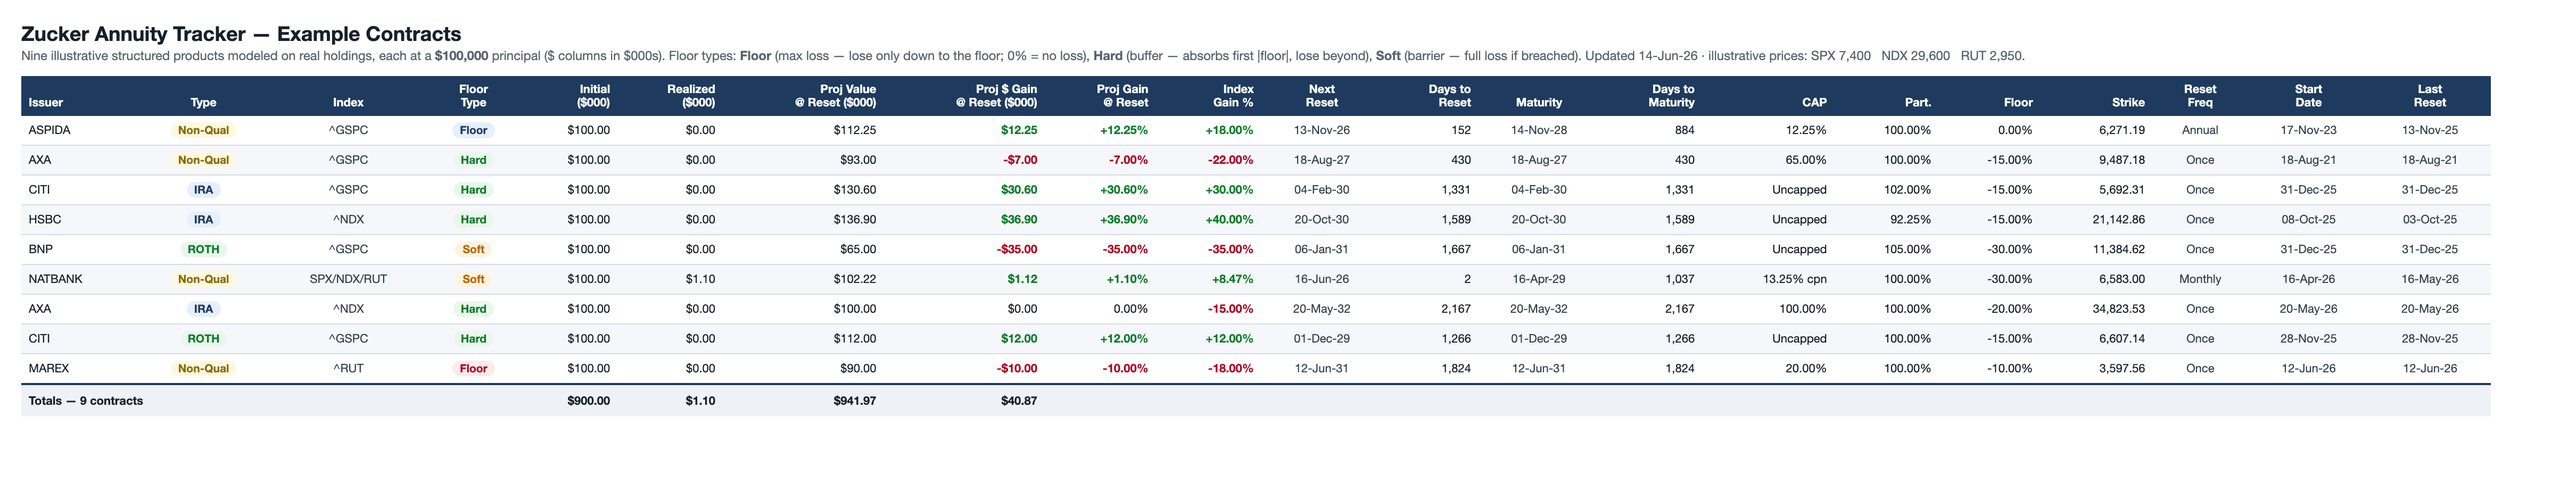
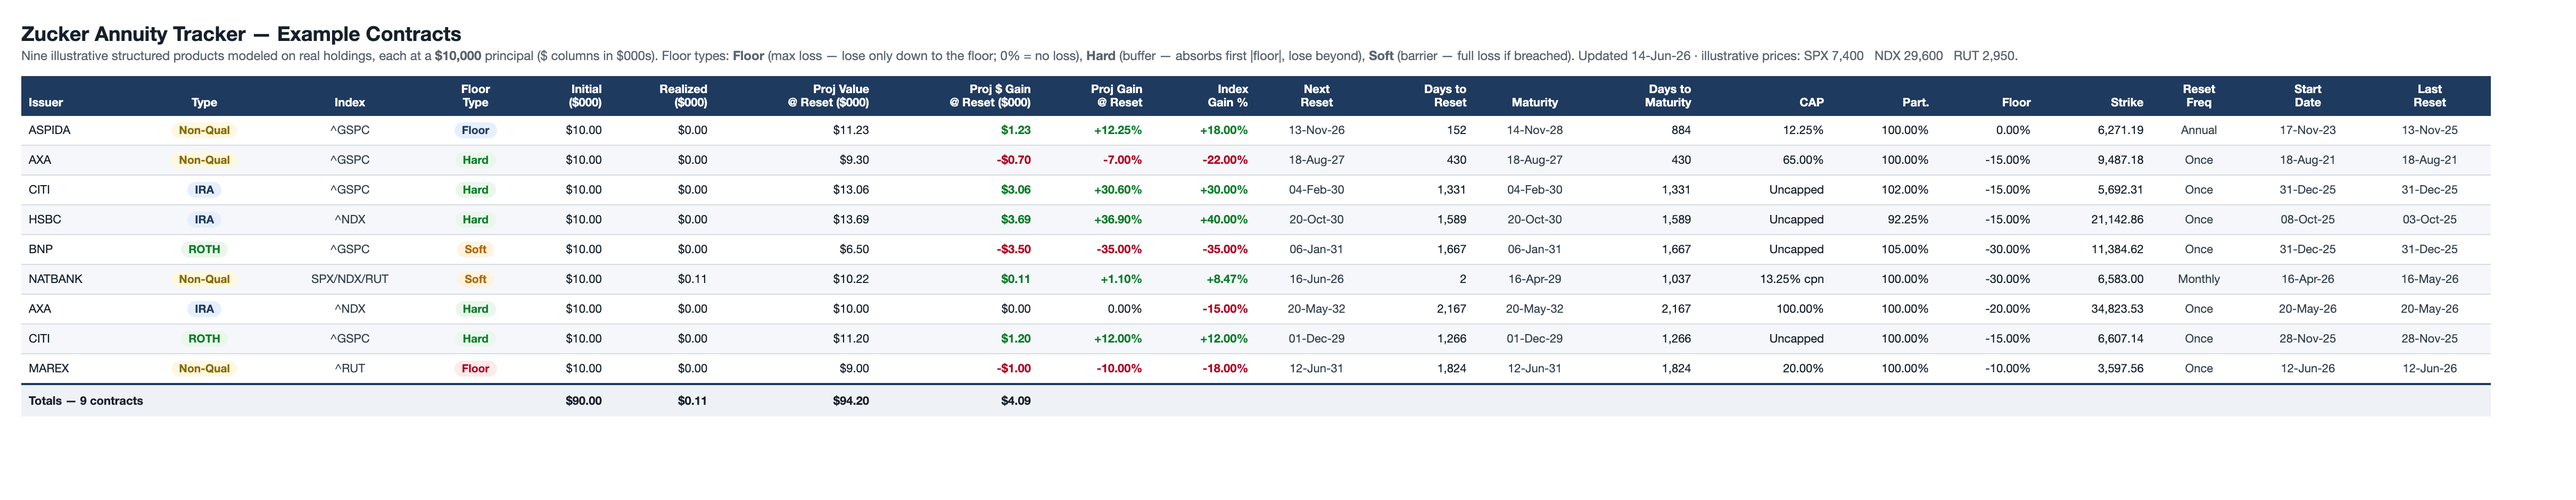
Fix CI + docs for the $10K sample; regenerate from gen_overview.py (v1.6.6) (#14)
The v1.6.5 sample change ($100K→$10K) was hand-edited into the xlsx binaries,
which broke three tests that hard-code the old dollar figures and left the docs
still showing $100K.

- Make gen_overview.py the single source: add PRINCIPAL=10.0, scale the note's
  realized coupon 1.10→0.11 for a uniform 1/10 sample, and regenerate all four
  xlsx files (data/ + app/assets/) plus overview.html.
- Update the three tests to the $10K figures (Proj Value, realized, totals).
- Update README (heading, intro, Proj Value column, total) and regenerate
  docs/overview.png + docs/screenshots/{hero,drilldown,phone-cards}.png.

flutter test --exclude-tags golden: 247 pass. Coverage gate holds (core 100%,
data 96.79%). Goldens regenerated and copied to docs/screenshots.

diff --git a/docs/overview.html b/docs/overview.html
@@ -40,7 +40,7 @@
 </head>
 <body>
   <div class="title">Zucker Annuity Tracker &mdash; Example Contracts</div>
-  <div class="sub">Nine illustrative structured products modeled on real holdings, each at a <b>$100,000</b> principal ($ columns in $000s). Floor types: <b>Floor</b> (max loss — lose only down to the floor; 0% = no loss), <b>Hard</b> (buffer — absorbs first |floor|, lose beyond), <b>Soft</b> (barrier — full loss if breached). Updated 14-Jun-26 &middot; illustrative prices: SPX 7,400 &nbsp; NDX 29,600 &nbsp; RUT 2,950.</div>
+  <div class="sub">Nine illustrative structured products modeled on real holdings, each at a <b>$10,000</b> principal ($ columns in $000s). Floor types: <b>Floor</b> (max loss — lose only down to the floor; 0% = no loss), <b>Hard</b> (buffer — absorbs first |floor|, lose beyond), <b>Soft</b> (barrier — full loss if breached). Updated 14-Jun-26 &middot; illustrative prices: SPX 7,400 &nbsp; NDX 29,600 &nbsp; RUT 2,950.</div>
   <table>
     <thead>
       <tr>
@@ -73,8 +73,8 @@
         <td class="c"><span class="pill nq">Non-Qual</span></td>
         <td class="c">^GSPC</td>
         <td class="c"><span class="pill abs">Floor</span></td>
-        <td>$100.00</td><td>$0.00</td>
-        <td>$112.25</td><td class="pos">$12.25</td>
+        <td>$10.00</td><td>$0.00</td>
+        <td>$11.23</td><td class="pos">$1.23</td>
         <td class="pos">+12.25%</td><td class="pos">+18.00%</td>
         <td class="c">13-Nov-26</td><td>152</td>
         <td class="c">14-Nov-28</td><td>884</td>
@@ -88,8 +88,8 @@
         <td class="c"><span class="pill nq">Non-Qual</span></td>
         <td class="c">^GSPC</td>
         <td class="c"><span class="pill hard">Hard</span></td>
-        <td>$100.00</td><td>$0.00</td>
-        <td>$93.00</td><td class="neg">-$7.00</td>
+        <td>$10.00</td><td>$0.00</td>
+        <td>$9.30</td><td class="neg">-$0.70</td>
         <td class="neg">-7.00%</td><td class="neg">-22.00%</td>
         <td class="c">18-Aug-27</td><td>430</td>
         <td class="c">18-Aug-27</td><td>430</td>
@@ -103,8 +103,8 @@
         <td class="c"><span class="pill ira">IRA</span></td>
         <td class="c">^GSPC</td>
         <td class="c"><span class="pill hard">Hard</span></td>
-        <td>$100.00</td><td>$0.00</td>
-        <td>$130.60</td><td class="pos">$30.60</td>
+        <td>$10.00</td><td>$0.00</td>
+        <td>$13.06</td><td class="pos">$3.06</td>
         <td class="pos">+30.60%</td><td class="pos">+30.00%</td>
         <td class="c">04-Feb-30</td><td>1,331</td>
         <td class="c">04-Feb-30</td><td>1,331</td>
@@ -118,8 +118,8 @@
         <td class="c"><span class="pill ira">IRA</span></td>
         <td class="c">^NDX</td>
         <td class="c"><span class="pill hard">Hard</span></td>
-        <td>$100.00</td><td>$0.00</td>
-        <td>$136.90</td><td class="pos">$36.90</td>
+        <td>$10.00</td><td>$0.00</td>
+        <td>$13.69</td><td class="pos">$3.69</td>
         <td class="pos">+36.90%</td><td class="pos">+40.00%</td>
         <td class="c">20-Oct-30</td><td>1,589</td>
         <td class="c">20-Oct-30</td><td>1,589</td>
@@ -133,8 +133,8 @@
         <td class="c"><span class="pill roth">ROTH</span></td>
         <td class="c">^GSPC</td>
         <td class="c"><span class="pill soft">Soft</span></td>
-        <td>$100.00</td><td>$0.00</td>
-        <td>$65.00</td><td class="neg">-$35.00</td>
+        <td>$10.00</td><td>$0.00</td>
+        <td>$6.50</td><td class="neg">-$3.50</td>
         <td class="neg">-35.00%</td><td class="neg">-35.00%</td>
         <td class="c">06-Jan-31</td><td>1,667</td>
         <td class="c">06-Jan-31</td><td>1,667</td>
@@ -148,8 +148,8 @@
         <td class="c"><span class="pill nq">Non-Qual</span></td>
         <td class="c">SPX/NDX/RUT</td>
         <td class="c"><span class="pill soft">Soft</span></td>
-        <td>$100.00</td><td>$1.10</td>
-        <td>$102.22</td><td class="pos">$1.12</td>
+        <td>$10.00</td><td>$0.11</td>
+        <td>$10.22</td><td class="pos">$0.11</td>
         <td class="pos">+1.10%</td><td class="pos">+8.47%</td>
         <td class="c">16-Jun-26</td><td>2</td>
         <td class="c">16-Apr-29</td><td>1,037</td>
@@ -163,8 +163,8 @@
         <td class="c"><span class="pill ira">IRA</span></td>
         <td class="c">^NDX</td>
         <td class="c"><span class="pill hard">Hard</span></td>
-        <td>$100.00</td><td>$0.00</td>
-        <td>$100.00</td><td class="">$0.00</td>
+        <td>$10.00</td><td>$0.00</td>
+        <td>$10.00</td><td class="">$0.00</td>
         <td class="">0.00%</td><td class="neg">-15.00%</td>
         <td class="c">20-May-32</td><td>2,167</td>
         <td class="c">20-May-32</td><td>2,167</td>
@@ -178,8 +178,8 @@
         <td class="c"><span class="pill roth">ROTH</span></td>
         <td class="c">^GSPC</td>
         <td class="c"><span class="pill hard">Hard</span></td>
-        <td>$100.00</td><td>$0.00</td>
-        <td>$112.00</td><td class="pos">$12.00</td>
+        <td>$10.00</td><td>$0.00</td>
+        <td>$11.20</td><td class="pos">$1.20</td>
         <td class="pos">+12.00%</td><td class="pos">+12.00%</td>
         <td class="c">01-Dec-29</td><td>1,266</td>
         <td class="c">01-Dec-29</td><td>1,266</td>
@@ -193,8 +193,8 @@
         <td class="c"><span class="pill nq">Non-Qual</span></td>
         <td class="c">^RUT</td>
         <td class="c"><span class="pill floor">Floor</span></td>
-        <td>$100.00</td><td>$0.00</td>
-        <td>$90.00</td><td class="neg">-$10.00</td>
+        <td>$10.00</td><td>$0.00</td>
+        <td>$9.00</td><td class="neg">-$1.00</td>
         <td class="neg">-10.00%</td><td class="neg">-18.00%</td>
         <td class="c">12-Jun-31</td><td>1,824</td>
         <td class="c">12-Jun-31</td><td>1,824</td>
@@ -207,7 +207,7 @@
     <tfoot>
       <tr>
         <td class="l" colspan="4">Totals &mdash; 9 contracts</td>
-        <td>$900.00</td><td>$1.10</td><td>$941.97</td><td>$40.87</td>
+        <td>$90.00</td><td>$0.11</td><td>$94.20</td><td>$4.09</td>
         <td colspan="13"></td>
       </tr>
     </tfoot>

diff --git a/app/test/tracker_xlsx_test.dart b/app/test/tracker_xlsx_test.dart
@@ -35,13 +35,13 @@ void main() {
     expect(aspida.account, AccountType.nonQual);
     expect(aspida.position, 'ASPIDA-0%-14Nov28'); // computed name, uppercase
     expect(aspida.projGain, closeTo(0.1225, 1e-6)); // recomputed from strike/gain
-    expect(aspida.projValueK, closeTo(112.25, 1e-3));
+    expect(aspida.projValueK, closeTo(11.225, 1e-3));
 
     final bnp = holdings.firstWhere((h) => h.issuer == 'BNP');
     expect(bnp.cap, isNull); // 9.99 sentinel → uncapped
     expect(bnp.floorType, FloorType.soft);
     expect(bnp.participation, closeTo(1.05, 1e-9));
-    expect(bnp.projValueK, closeTo(65.0, 1e-2)); // -35% breaches -30% soft
+    expect(bnp.projValueK, closeTo(6.5, 1e-2)); // -35% breaches -30% soft
 
     final note = holdings.firstWhere((h) => h.isIncomeNote);
     expect(note.resetFreq, ResetFreq.monthly);
@@ -50,7 +50,7 @@ void main() {
     expect(note.rutStrike, 2719);
     // Tracker formula: gain = (initial + realized) * projGain; and the identity
     // value = initial + realized + gain holds.
-    expect(note.realized, closeTo(1.10, 1e-9));
+    expect(note.realized, closeTo(0.11, 1e-9));
     expect(note.projGainDollarsK,
         closeTo((note.initial + note.realized) * note.projGain, 1e-9));
     expect(note.initial + note.realized + note.projGainDollarsK,
@@ -81,7 +81,7 @@ void main() {
     // a styled TOTAL row is appended (and skipped on re-import).
     final totalRow = rows.firstWhere(
         (r) => r.isNotEmpty && r.first?.toString().trim() == 'TOTAL');
-    expect(totalRow[7], closeTo(941.98, 0.02)); // Proj Value total (col H)
+    expect(totalRow[7], closeTo(94.198, 0.02)); // Proj Value total (col H)
   });
 
   test('gainStatus flags capped / loss / gain', () {

diff --git a/app/test/data_test.dart b/app/test/data_test.dart
@@ -367,11 +367,11 @@ void main() {
       final bytes = File('../data/example-portfolio.xlsx').readAsBytesSync();
       final n = await store.importXlsx(bytes);
       expect(n, 9);
-      expect(store.totalInitial, closeTo(900.0, 1e-6));
+      expect(store.totalInitial, closeTo(90.0, 1e-6));
       expect(store.totalProjValue, greaterThan(0));
       // Unrealized total excludes realized: value = initial + realized + gain.
       expect(store.totalProjGain,
-          closeTo(store.totalProjValue - 900.0 - store.totalRealized, 1e-6));
+          closeTo(store.totalProjValue - 90.0 - store.totalRealized, 1e-6));
 
       // export round-trips back through the parser
       final exported = store.exportXlsx();

diff --git a/docs/gen_overview.py b/docs/gen_overview.py
@@ -4,7 +4,7 @@
 # SPDX-License-Identifier: LicenseRef-Proprietary
 #
 # Eight illustrative example contracts modeled on the Zucker Annuity Tracker,
-# every one normalized to a $100,000 principal ($ columns in $000s). Covers all
+# every one normalized to a $10,000 principal ($ columns in $000s). Covers all
 # distinct use cases in the real data: 0% floor, negative Hard buffer, negative
 # Soft barrier; capped + uncapped; participation <100/100/>100%; Annual / Monthly
 # / 4Y / 5Y / 6Y resets; SPX / NDX / RUT / worst-of; Non-Qual / IRA / ROTH; plus
@@ -30,6 +30,7 @@ from openpyxl.styles import Font, PatternFill, Alignment
 
 TODAY = datetime.date(2026, 6, 14)
 PRICES = {"SPX": 7400.0, "NDX": 29600.0, "RUT": 2950.0}
+PRINCIPAL = 10.0  # per-position principal in $000s (10 = $10,000)
 UNCAPPED_SENTINEL = 9.99  # v1.0 schema: numeric cell value meaning "uncapped"
 
 # Issuer canonicalization (must match canonicalIssuer() in models.dart).
@@ -59,7 +60,7 @@ def d(y, m, day): return datetime.date(y, m, day)
 def mdy(dt): return dt.strftime("%d-%b-%y")
 def days(dt): return (dt - TODAY).days
 
-# Each row models a real position, normalized to $100k principal.
+# Each row models a real position, normalized to $10k principal.
 # idx = illustrative index move for the shown period; cap=None means uncapped.
 ROWS = [
     dict(pos="Aspida 12.25%-14Nov28", issuer="Aspida", index="^GSPC",
@@ -86,7 +87,7 @@ ROWS = [
          cap=0.1325, part=1.00, floor=-0.30, soft=True, idx=0.0847,
          open=d(2026,4,16), last=d(2026,5,16), mat=d(2029,4,16), nxt=d(2026,6,16),
          freq="Monthly", acct="Non-Qual",
-         note=True, realized=1.10, proj=0.0112, strike=6583.0,
+         note=True, realized=0.11, proj=0.0112, strike=6583.0,
          ndx_strike=27290.0, rut_strike=2719.0),  # income note: monthly coupon
     dict(pos="Axa 100%-20May32", issuer="AXA", index="^NDX",
          cap=1.00, part=1.00, floor=-0.20, soft=False, idx=-0.15,
@@ -164,11 +165,11 @@ for r in ROWS:
         r["strike"] = PRICES[base_index(r["index"])] / (1 + r["idx"])
     # Matches the tracker: realized is reinvested into the base, so the payoff
     # applies to (initial + realized).
-    base = 100.0 + r["realized_v"]
+    base = PRINCIPAL + r["realized_v"]
     r["proj_value"] = base * (1 + r["proj_gain"])
     r["proj_gain_dollars"] = base * r["proj_gain"]
 
-tot_init = 100.0 * len(ROWS)
+tot_init = PRINCIPAL * len(ROWS)
 tot_real = sum(r["realized_v"] for r in ROWS)
 tot_pv   = sum(r["proj_value"] for r in ROWS)
 tot_pg   = sum(r["proj_gain_dollars"] for r in ROWS)
@@ -193,7 +194,7 @@ for r in ROWS:
         <td class="c"><span class="pill {ACCT[r['acct']]}">{r['acct']}</span></td>
         <td class="c">{r['index']}</td>
         <td class="c"><span class="pill {prot}">{prot_lbl}</span></td>
-        <td>$100.00</td><td>{money(r['realized_v'])}</td>
+        <td>{money(PRINCIPAL)}</td><td>{money(r['realized_v'])}</td>
         <td>{money(r['proj_value'])}</td><td class="{pc}">{money(r['proj_gain_dollars'])}</td>
         <td class="{pc}">{pct(r['proj_gain'])}</td><td class="{ic}">{pct(r['idx'])}</td>
         <td class="c">{mdy(r['nxt'])}</td><td>{days(r['nxt']):,}</td>
@@ -246,7 +247,7 @@ HTML = f"""<!--
 </head>
 <body>
   <div class="title">Zucker Annuity Tracker &mdash; Example Contracts</div>
-  <div class="sub">Nine illustrative structured products modeled on real holdings, each at a <b>$100,000</b> principal ($ columns in $000s). Floor types: <b>Floor</b> (max loss — lose only down to the floor; 0% = no loss), <b>Hard</b> (buffer — absorbs first |floor|, lose beyond), <b>Soft</b> (barrier — full loss if breached). Updated {TODAY:%d-%b-%y} &middot; illustrative prices: SPX 7,400 &nbsp; NDX 29,600 &nbsp; RUT 2,950.</div>
+  <div class="sub">Nine illustrative structured products modeled on real holdings, each at a <b>$10,000</b> principal ($ columns in $000s). Floor types: <b>Floor</b> (max loss — lose only down to the floor; 0% = no loss), <b>Hard</b> (buffer — absorbs first |floor|, lose beyond), <b>Soft</b> (barrier — full loss if breached). Updated {TODAY:%d-%b-%y} &middot; illustrative prices: SPX 7,400 &nbsp; NDX 29,600 &nbsp; RUT 2,950.</div>
   <table>
     <thead>
       <tr>
@@ -342,7 +343,7 @@ def _row_values(r):
         r["acct"],                                         # C Type
         r["index"],                                        # D Index
         _floor_type_label(r),                              # E Floor Type
-        100.00,                                            # F Initial ($000)
+        PRINCIPAL,                                         # F Initial ($000)
         r["realized_v"],                                   # G Realized ($000)
         r["proj_value"],                                   # H Proj Value
         r["proj_gain_dollars"],                            # I Proj $ Gain
@@ -406,7 +407,7 @@ def write_xlsx(path, rows, *, with_data, with_instructions):
         # I=Proj $ Gain (1-indexed 6-9). All other columns blank.
         tot = [None] * len(HEADERS)
         tot[0] = "TOTAL"
-        tot[5] = 100.0 * len(rows)                          # F Initial
+        tot[5] = PRINCIPAL * len(rows)                      # F Initial
         tot[6] = sum(r["realized_v"] for r in rows)         # G Realized
         tot[7] = sum(r["proj_value"] for r in rows)         # H Proj Value
         tot[8] = sum(r["proj_gain_dollars"] for r in rows)  # I Proj $ Gain
@@ -439,7 +440,7 @@ def write_xlsx(path, rows, *, with_data, with_instructions):
             ["Reset Freq", "input", "'Once' (point-to-point), 'Annual', or 'Monthly'"],
             ["Next Reset", "input", "Date of next reset"],
             ["Days to Reset", "derived", "Recomputed from Next Reset"],
-            ["Initial ($000)", "input", "Principal in thousands, e.g. 100 = $100,000"],
+            ["Initial ($000)", "input", "Principal in thousands, e.g. 10 = $10,000"],
             ["Realized ($000)", "input", "Cumulative coupons/income to date, in $000"],
             ["Proj Value / Proj $ Gain", "derived", "Recomputed"],
             ["Type", "input", "'Non-Qual', 'IRA', or 'ROTH'"],

diff --git a/README.md b/README.md
@@ -98,10 +98,10 @@ projValue   = (initial + realized) × (1 + payoff)
 unrealized  = (initial + realized) × payoff      # projValue = initial + realized + unrealized
 ```
 
-## Example contracts — $100,000 starting principal
+## Example contracts — $10,000 starting principal
 
 The nine illustrative contracts below match the table in the image above. They
-are **modeled on real holdings** but normalized to a **$100,000** principal;
+are **modeled on real holdings** but normalized to a **$10,000** principal;
 index returns/levels are illustrative (dates/days as of 14‑Jun‑26). The
 `Floor Type` column is the downside-protection mechanism — **Floor** (max loss —
 lose only down to the floor; 0% = no loss), **Hard** (first |floor|%
@@ -111,16 +111,16 @@ $000s. Reset cadences collapse to **Once** (point-to-point), **Annual**, or
 
 | Issuer | Index | Cap | Part. | Floor | Floor Type | Reset | Account | Index → Payoff | Proj Value |
 | --- | --- | --- | --- | --- | --- | --- | --- | --- | --- |
-| ASPIDA | ^GSPC | 12.25% | 100% | 0% | Floor | Annual | Non‑Qual | +18.00% → +12.25% | **$112.25** |
-| AXA | ^GSPC | 65% | 100% | −15% | Hard | Once | Non‑Qual | −22.00% → −7.00% | **$93.00** |
-| CITI | ^GSPC | Uncapped | 102% | −15% | Hard | Once | IRA | +30.00% → +30.60% | **$130.60** |
-| HSBC | ^NDX | Uncapped | 92.25% | −15% | Hard | Once | IRA | +40.00% → +36.90% | **$136.90** |
-| BNP | ^GSPC | Uncapped | 105% | −30% | Soft | Once | ROTH | −35.00% → −35.00% | **$65.00** |
-| NATBANK | SPX/NDX/RUT | 13.25% cpn | 100% | −30% | Soft | Monthly | Non‑Qual | +8.47% → +1.10% | **$102.22** |
-| AXA | ^NDX | 100% | 100% | −20% | Hard | Once | IRA | −15.00% → 0.00% | **$100.00** |
-| CITI | ^GSPC | Uncapped | 100% | −15% | Hard | Once | ROTH | +12.00% → +12.00% | **$112.00** |
-| MAREX | ^RUT | 20% | 100% | −10% | Floor | Once | Non‑Qual | −18.00% → −10.00% | **$90.00** |
-| **Total** | | | | | | | | | **$941.97** |
+| ASPIDA | ^GSPC | 12.25% | 100% | 0% | Floor | Annual | Non‑Qual | +18.00% → +12.25% | **$11.23** |
+| AXA | ^GSPC | 65% | 100% | −15% | Hard | Once | Non‑Qual | −22.00% → −7.00% | **$9.30** |
+| CITI | ^GSPC | Uncapped | 102% | −15% | Hard | Once | IRA | +30.00% → +30.60% | **$13.06** |
+| HSBC | ^NDX | Uncapped | 92.25% | −15% | Hard | Once | IRA | +40.00% → +36.90% | **$13.69** |
+| BNP | ^GSPC | Uncapped | 105% | −30% | Soft | Once | ROTH | −35.00% → −35.00% | **$6.50** |
+| NATBANK | SPX/NDX/RUT | 13.25% cpn | 100% | −30% | Soft | Monthly | Non‑Qual | +8.47% → +1.10% | **$10.22** |
+| AXA | ^NDX | 100% | 100% | −20% | Hard | Once | IRA | −15.00% → 0.00% | **$10.00** |
+| CITI | ^GSPC | Uncapped | 100% | −15% | Hard | Once | ROTH | +12.00% → +12.00% | **$11.20** |
+| MAREX | ^RUT | 20% | 100% | −10% | Floor | Once | Non‑Qual | −18.00% → −10.00% | **$9.00** |
+| **Total** | | | | | | | | | **$94.20** |
 
 What each row demonstrates:
 
